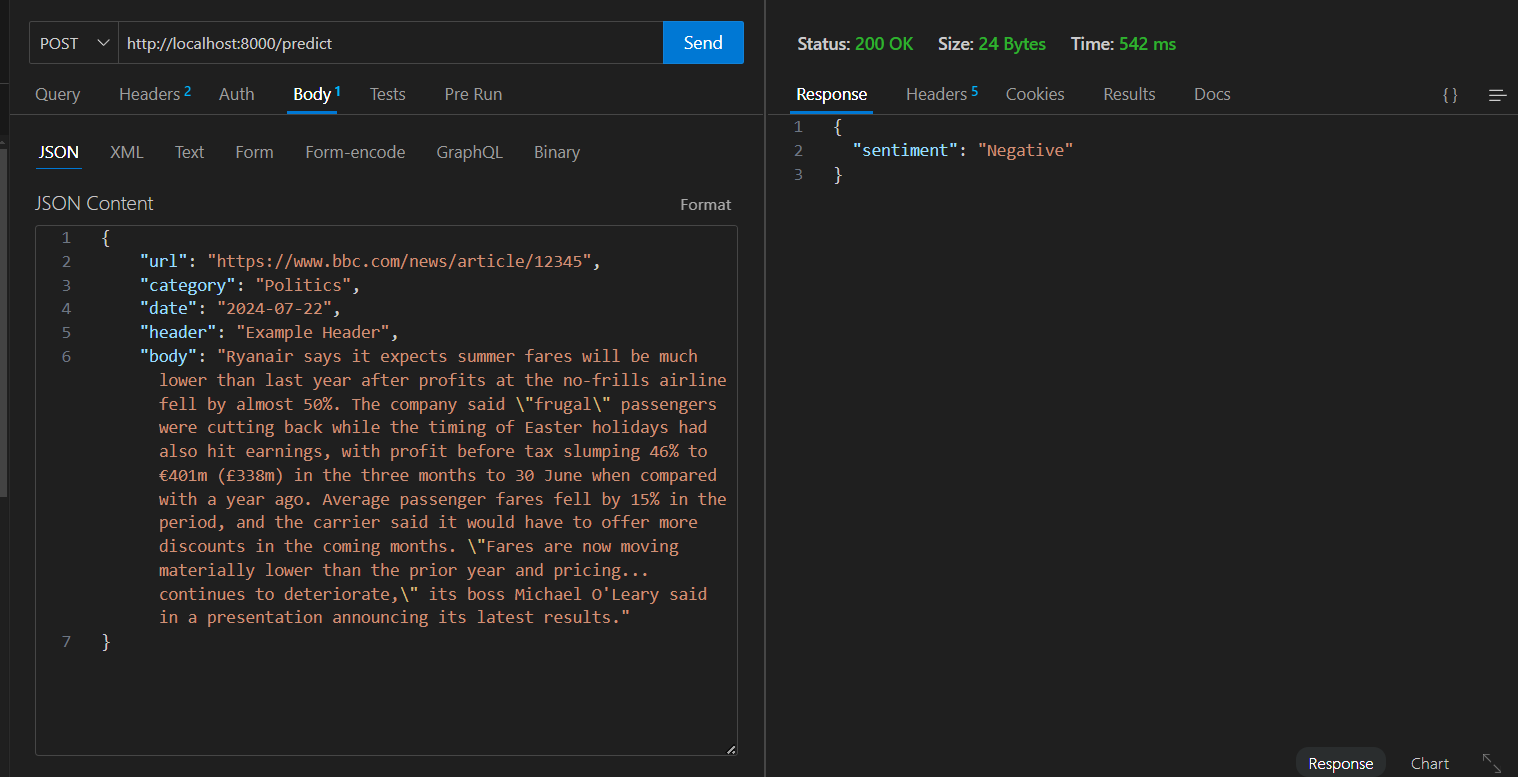
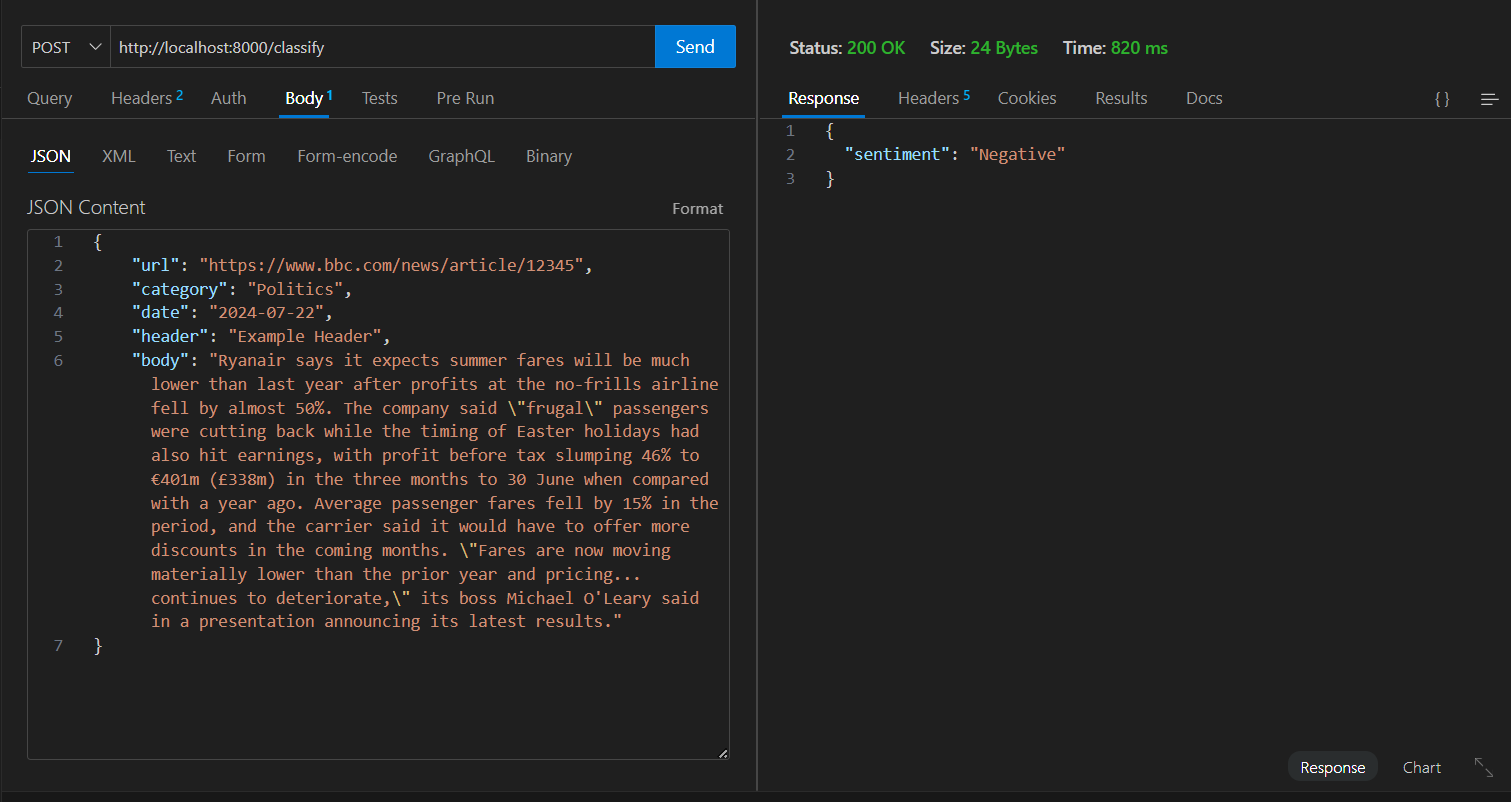
update pictures

diff --git a/main.py b/main.py
@@ -53,7 +53,7 @@ def trigger_scrape():
     return {"message": "Scraping completed and news articles updated"}
 
 
-@app.post("/predict")
+@app.post("/classify")
 def predict(bbc_model: BBCModel):
     try:
         text = bbc_model.body
